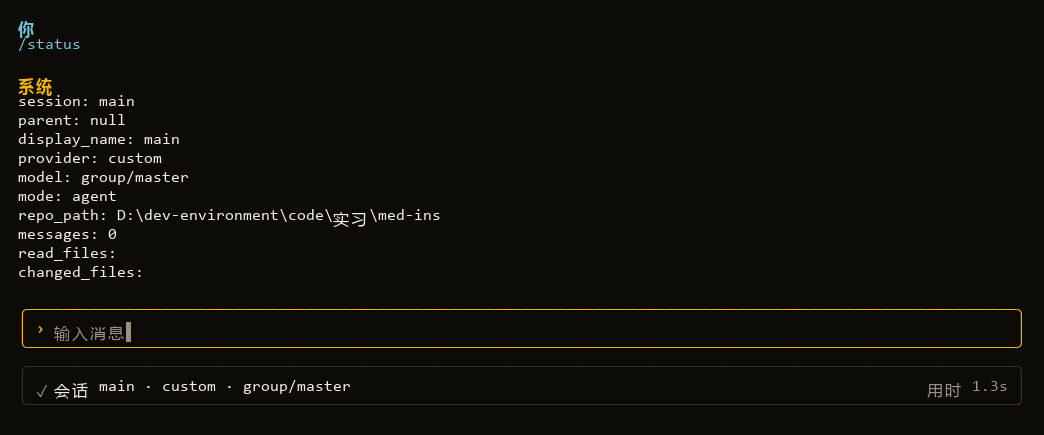
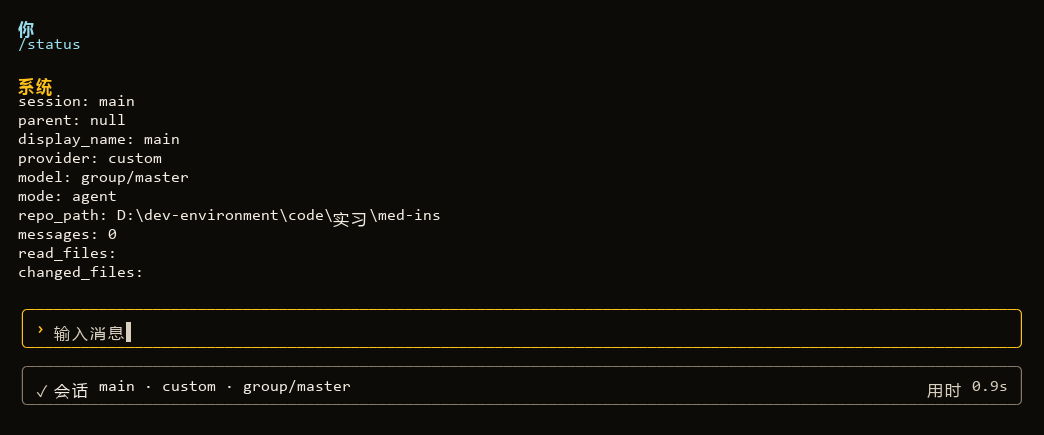
fix(tui): retune the palette so it passes the APCA contrast gate
The old theme was tuned by eye and failed the gate on four of nine tokens:
muted (Lc 43) and danger (Lc 48) could not carry text, and border (1.53:1)
made the input and status boxes nearly invisible.

- muted #9A8F80 -> #D9CFBF, info/ok/accent raised, new dangerText for
  error text while danger stays the mark/border red (non-text Lc 48)
- border #3A302A -> #8A7A6A so box edges clear the 3:1 non-text floor
- drop accentDim/panel/panelSoft: nothing used them
- split error text onto dangerText in the login, model and chat views
- paint the startup banner as chrome (muted frame, accent title) now that
  it is written to stdout before Ink takes over
- delete the four unreferenced components from the old menu/report UI
- regenerate every README screenshot against the new palette

APCA gate now passes on all pairs (body Lc 75-96, non-text Lc 33-48).

diff --git a/tui/src/main.tsx b/tui/src/main.tsx
@@ -10,6 +10,7 @@ import { render } from "ink";
 import { App } from "./components/App.js";
 import { buildBanner } from "./components/Header.js";
 import { parseCliArgs, USAGE } from "./cli.js";
+import { theme } from "./theme.js";
 
 /**
  * Rebuild when launched through the globally linked `exhibit` command.
@@ -51,6 +52,14 @@ export function ensureFreshBuild(): void {
 
 const model = process.env.EXHIBIT_MODEL ?? "gpt-5.4-mini";
 
+/** Wrap text in a 24-bit ANSI foreground colour from a `#RRGGBB` token. */
+function paint(hex: string, text: string): string {
+  const [red, green, blue] = [1, 3, 5].map((offset) =>
+    Number.parseInt(hex.slice(offset, offset + 2), 16),
+  );
+  return `\u001b[38;2;${red};${green};${blue}m${text}\u001b[0m`;
+}
+
 /** Read the TUI version from package.json without importing outside rootDir. */
 function readVersion(): string {
   try {
@@ -85,12 +94,16 @@ if (options?.help) {
     }
     // Ink only prints the first <Static> block in a tree, so the banner is
     // written into scrollback once here and the chat log keeps the only Static.
+    // It is painted as chrome: muted frame, accent title, so the conversation
+    // stays the brightest thing on screen.
     process.stdout.write(
       buildBanner({
         taskTitle: "Exhibit Chat",
         repoPath: options.repoPath,
         version,
-      }).join("\n") + "\n",
+      })
+        .map((line, index) => paint(index === 0 ? theme.accent : theme.muted, line))
+        .join("\n") + "\n",
     );
     render(<App model={model} repoPath={options.repoPath} />, {
       exitOnCtrlC: false,

diff --git a/tui/src/theme.ts b/tui/src/theme.ts
@@ -1,18 +1,23 @@
-/** The visual language of Exhibit: dark, warm-amber accents, high contrast. */
+/**
+ * The visual language of Exhibit: an amber-phosphor terminal on warm charcoal.
+ *
+ * Every value here is a contrast-checked token — the APCA gate (Lc 75 body /
+ * 30 non-text on `ink`) has to pass before a colour ships, so no component
+ * introduces an off-system hex. `danger` is the mark/border red; `dangerText`
+ * is the lighter red that stays legible as small text on `ink`.
+ */
 
 export const theme = {
-  accent: "#F2B705",
-  accentDim: "#8C6A0B",
+  accent: "#FFC21A",
   ink: "#0D0B08",
-  panel: "#171310",
-  panelSoft: "#221C17",
   text: "#F4EDE3",
-  muted: "#9A8F80",
+  muted: "#D9CFBF",
   danger: "#FF6B4A",
-  warn: "#F2B705",
-  ok: "#7ED08A",
-  info: "#6FC3D8",
-  border: "#3A302A",
+  dangerText: "#FFC2B3",
+  warn: "#FFC21A",
+  ok: "#A6E8B0",
+  info: "#9BDDEE",
+  border: "#8A7A6A",
 } as const;
 
 export const SYMBOLS = {

diff --git a/tui/src/components/ModelDialog.tsx b/tui/src/components/ModelDialog.tsx
@@ -99,7 +99,7 @@ export function ModelDialog({
             return (
               <Text key={`provider-${row.provider}`} color={theme.info} bold>
                 {row.label} · {source}
-                {row.error ? <Text color={theme.danger}> · {row.error}</Text> : null}
+                {row.error ? <Text color={theme.dangerText}> · {row.error}</Text> : null}
               </Text>
             );
           }
@@ -141,7 +141,7 @@ export function ModelDialog({
         <Text color={theme.muted}>↑↓ 选择 · Enter 应用 · Esc 取消</Text>
       )}
       {busy ? <Text color={theme.accent}>正在切换模型…</Text> : null}
-      {error ? <Text color={theme.danger}>{error} · r 重新发现</Text> : null}
+      {error ? <Text color={theme.dangerText}>{error} · r 重新发现</Text> : null}
     </Box>
   );
 }

diff --git a/tui/src/components/LoginDialog.tsx b/tui/src/components/LoginDialog.tsx
@@ -142,7 +142,7 @@ export function LoginDialog({
               ? `输入 ${field === "key" ? "API Key" : field === "baseUrl" ? "Base URL" : "Model"} · Enter 继续 · Esc 后退`
               : "Enter 登录 · Esc 后退"}
       </Text>
-      {error ? <Text color={theme.danger}>{error}</Text> : null}
+      {error ? <Text color={theme.dangerText}>{error}</Text> : null}
     </Box>
   );
 }

diff --git a/tui/src/components/ChatViewport.tsx b/tui/src/components/ChatViewport.tsx
@@ -36,7 +36,7 @@ const TONE_COLOR: Record<LineTone, string> = {
   muted: theme.muted,
   info: theme.info,
   ok: theme.ok,
-  danger: theme.danger,
+  danger: theme.dangerText,
   warn: theme.warn,
   border: theme.border,
 };

diff --git a/README.md b/README.md
@@ -39,8 +39,7 @@ React-Ink 渲染终端界面，两者通过 stdio 上的 JSON 行协议通信。
 
 ![Git 变更审查](docs/screenshots/09-diff-report.png)
 
-整仓/架构审查会给出更长的分级报告；当报告触到输出上限时，末尾会直接提示调大
-`EXHIBIT_MAX_OUTPUT_TOKENS`：
+整仓/架构审查会给出更长的分级报告（阅读路径按 `文件:行号` 落到具体实现）：
 
 ![架构审查](docs/screenshots/11-arch-report.png)
 
